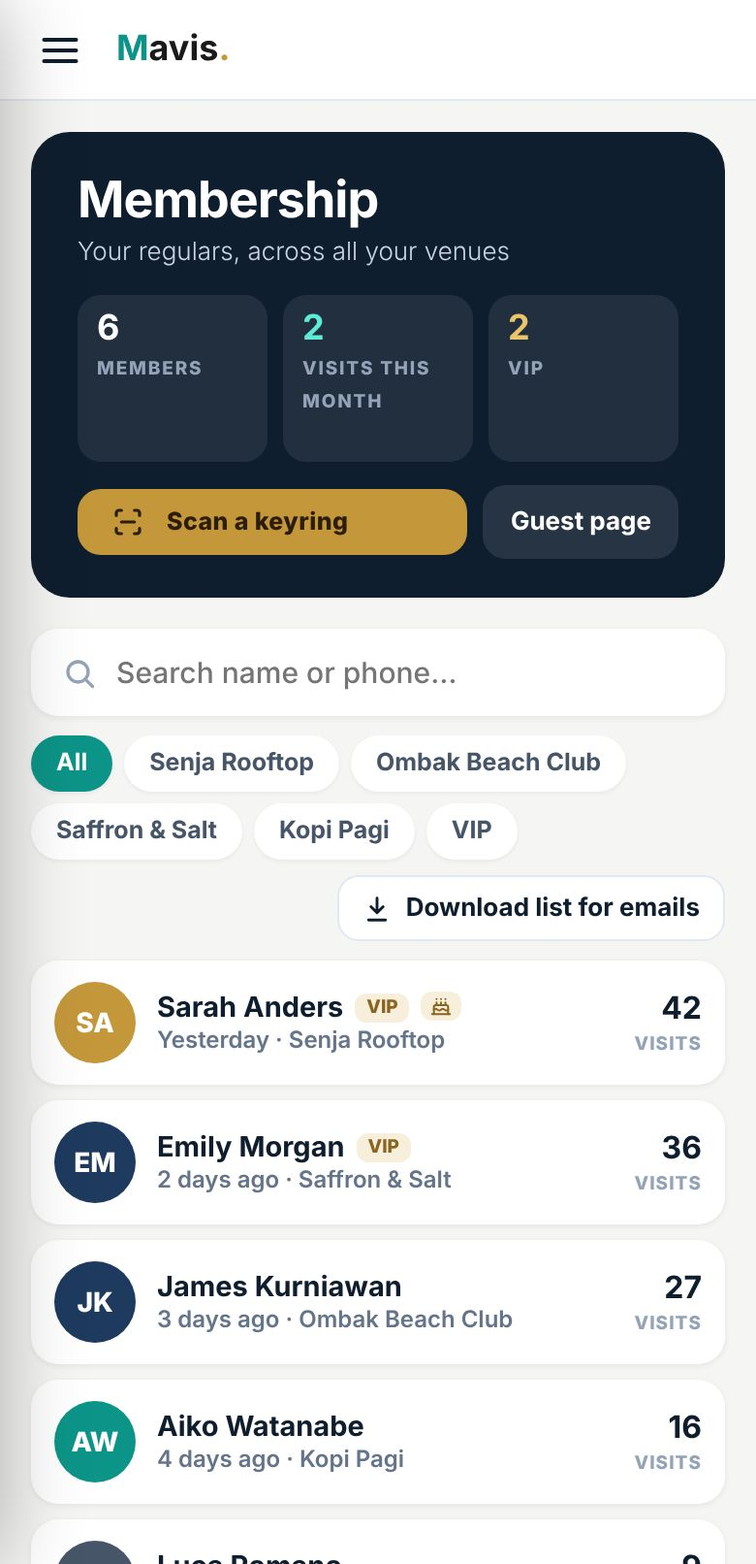
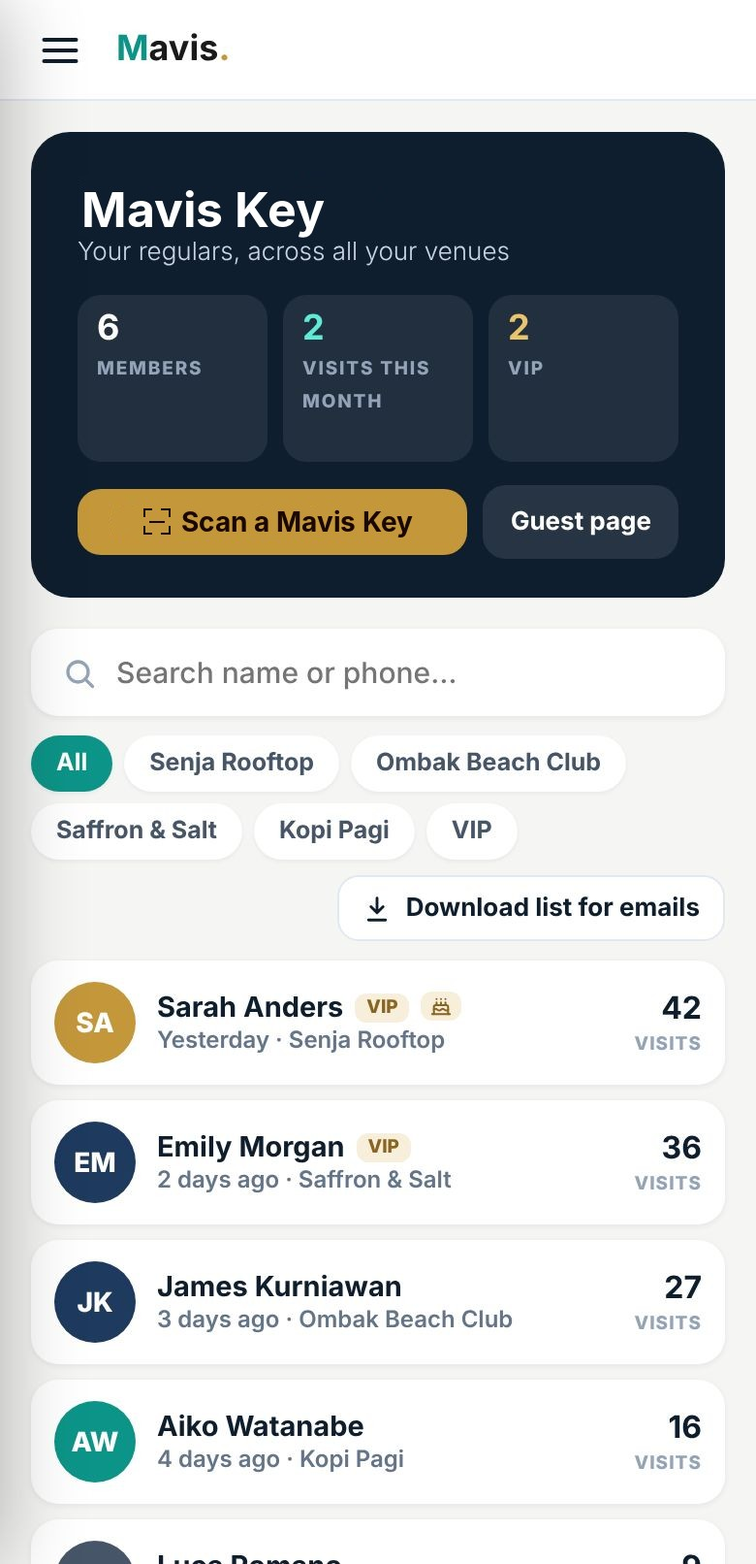
Sales site: Membership renamed Mavis Key with an ADD-ON tag, new Mavis Key scan screen, screenshots relabelled Mavis Key / Scan a Mavis Key
Claude-Session: https://claude.ai/code/session_01PDrfwPm1ywymGCuyADBdVM

Changed region(s): [[0.0923, 0.0931, 0.4923, 0.1551], [0.1538, 0.3102, 0.5538, 0.3412]]

diff --git a/index.html b/index.html
@@ -148,6 +148,7 @@ figure{margin:0}
 .scanwrap{position:relative;overflow:hidden;border-radius:25px}
 .scanl{position:absolute;left:14.5%;right:14.5%;top:31%;height:3px;border-radius:2px;background:#2DD4BF;box-shadow:0 0 16px 2px #2DD4BF;animation:scanl 2.4s ease-in-out infinite alternate}
 @keyframes scanl{from{top:31%}to{top:58%}}
+.scanl.mk{left:25%;right:31%;animation-name:scanlmk}@keyframes scanlmk{from{top:61%}to{top:83%}}
 .ns-row{grid-template-columns:repeat(2,minmax(0,1fr))}.ns-row a{min-width:0}.ns-row a span{min-width:0;overflow-wrap:anywhere}@media(max-width:360px){.ns-row a{font-size:13px;padding:10px;gap:8px}}
 @media (min-width:760px){.shots.multi.n5{gap:16px}.shots.multi.n5 .phone{width:calc(20% - 13px)}}
 
@@ -178,7 +179,7 @@ figure{margin:0}
 <h2>Everything<br><em>under one roof.</em></h2>
 <p class="lede">Stop running your venue across WhatsApp groups, shared drives and spreadsheets. Mavis brings it all together.</p>
 <ul><li><span class="tile"><svg viewBox="0 0 24 24" fill="none" stroke="currentColor" stroke-width="1.9" stroke-linecap="round" stroke-linejoin="round" aria-hidden="true"><path d="M3 9.5 12 3l9 6.5V20a1 1 0 0 1-1 1h-5v-6H9v6H4a1 1 0 0 1-1-1z"/></svg></span><div><h3>Everyone's part of the team</h3><p>Highlights, shoutouts and announcements in one feed. Open the app and you're in the loop.</p></div></li><li><span class="tile"><svg viewBox="0 0 24 24" fill="none" stroke="currentColor" stroke-width="1.9" stroke-linecap="round" stroke-linejoin="round" aria-hidden="true"><path d="M21 11.5a8.4 8.4 0 0 1-9 8.4 8.6 8.6 0 0 1-3.9-.9L3 21l1.9-5.1A8.4 8.4 0 0 1 12 3a8.4 8.4 0 0 1 9 8.5z"/></svg></span><div><h3>Every conversation, one place</h3><p>No more updates lost in 15 WhatsApp groups.</p></div></li><li><span class="tile"><svg viewBox="0 0 24 24" fill="none" stroke="currentColor" stroke-width="1.9" stroke-linecap="round" stroke-linejoin="round" aria-hidden="true"><path d="M3 2v7c0 1.1.9 2 2 2h4a2 2 0 0 0 2-2V2"/><path d="M7 2v20"/><path d="M21 15V2a5 5 0 0 0-5 5v6c0 1.1.9 2 2 2h3zm0 0v7"/></svg></span><div><h3>Menus and recipes together</h3><p>Every dish with its recipe, allergens and food cost. No more hunting through shared drives.</p></div></li><li><span class="tile"><svg viewBox="0 0 24 24" fill="none" stroke="currentColor" stroke-width="1.9" stroke-linecap="round" stroke-linejoin="round" aria-hidden="true"><path d="m9 11 3 3L22 4"/><path d="M21 12v7a2 2 0 0 1-2 2H5a2 2 0 0 1-2-2V5a2 2 0 0 1 2-2h11"/></svg></span><div><h3>Every procedure, one tap away</h3><p>New staff know the standard from day one.</p></div></li><li><span class="tile"><svg viewBox="0 0 24 24" fill="none" stroke="currentColor" stroke-width="1.9" stroke-linecap="round" stroke-linejoin="round" aria-hidden="true"><path d="M12 20V10"/><path d="M18 20V4"/><path d="M6 20v-4"/></svg></span><div><h3>The numbers, not the spreadsheets</h3><p>Revenue, forecasts and events, updated as you go.</p></div></li><li><span class="tile"><svg viewBox="0 0 24 24" fill="none" stroke="currentColor" stroke-width="1.9" stroke-linecap="round" stroke-linejoin="round" aria-hidden="true"><path d="M12 22s8-4 8-10V5l-8-3-8 3v7c0 6 8 10 8 10z"/></svg></span><div><h3>Every venue, one login</h3><p>Switch venues in a tap. From the GM to the daily worker, everyone sees exactly what they need.</p></div></li></ul></div></section>
-<section class="index" id="inside"><div class="wrap"><h2>What's inside. Tap to jump.</h2><div class="chips"><a class="chip" href="#f0"><svg viewBox="0 0 24 24" fill="none" stroke="currentColor" stroke-width="2" stroke-linecap="round" stroke-linejoin="round" aria-hidden="true"><path d="M3 9.5 12 3l9 6.5V20a1 1 0 0 1-1 1h-5v-6H9v6H4a1 1 0 0 1-1-1z"/></svg><span>Dashboard</span></a><a class="chip" href="#f1"><svg viewBox="0 0 24 24" fill="none" stroke="currentColor" stroke-width="2" stroke-linecap="round" stroke-linejoin="round" aria-hidden="true"><path d="M11 5 6 9H2v6h4l5 4z"/><path d="M15.5 8.5a5 5 0 0 1 0 7"/><path d="M19 5a10 10 0 0 1 0 14"/></svg><span>Highlights</span></a><a class="chip" href="#f2"><svg viewBox="0 0 24 24" fill="none" stroke="currentColor" stroke-width="2" stroke-linecap="round" stroke-linejoin="round" aria-hidden="true"><path d="M6 8a6 6 0 0 1 12 0c0 7 3 9 3 9H3s3-2 3-9"/><path d="M10.3 21a1.94 1.94 0 0 0 3.4 0"/></svg><span>Team Feed</span></a><a class="chip" href="#f3"><svg viewBox="0 0 24 24" fill="none" stroke="currentColor" stroke-width="2" stroke-linecap="round" stroke-linejoin="round" aria-hidden="true"><path d="M21 11.5a8.4 8.4 0 0 1-9 8.4 8.6 8.6 0 0 1-3.9-.9L3 21l1.9-5.1A8.4 8.4 0 0 1 12 3a8.4 8.4 0 0 1 9 8.5z"/></svg><span>Chat</span></a><a class="chip" href="#f4"><svg viewBox="0 0 24 24" fill="none" stroke="currentColor" stroke-width="2" stroke-linecap="round" stroke-linejoin="round" aria-hidden="true"><path d="M22 12h-4l-3 9L9 3l-3 9H2"/></svg><span>Forecast</span></a><a class="chip" href="#f5"><svg viewBox="0 0 24 24" fill="none" stroke="currentColor" stroke-width="2" stroke-linecap="round" stroke-linejoin="round" aria-hidden="true"><path d="M12 20V10"/><path d="M18 20V4"/><path d="M6 20v-4"/></svg><span>Analytics</span></a><a class="chip" href="#fe"><svg viewBox="0 0 24 24" fill="none" stroke="currentColor" stroke-width="2" stroke-linecap="round" stroke-linejoin="round" aria-hidden="true"><rect x="3" y="4" width="18" height="18" rx="2"/><path d="M16 2v4M8 2v4M3 10h18"/><path d="M8 15h3"/></svg><span>Events &amp; P&amp;L</span></a><a class="chip" href="#fm"><svg viewBox="0 0 24 24" fill="none" stroke="currentColor" stroke-width="2" stroke-linecap="round" stroke-linejoin="round" aria-hidden="true"><rect x="3" y="5" width="18" height="14" rx="2"/><circle cx="9" cy="12" r="2.5"/><path d="M14 10h4M14 14h3"/></svg><span>Membership</span></a><a class="chip" href="#f6"><svg viewBox="0 0 24 24" fill="none" stroke="currentColor" stroke-width="2" stroke-linecap="round" stroke-linejoin="round" aria-hidden="true"><path d="M3 2v7c0 1.1.9 2 2 2h4a2 2 0 0 0 2-2V2"/><path d="M7 2v20"/><path d="M21 15V2a5 5 0 0 0-5 5v6c0 1.1.9 2 2 2h3zm0 0v7"/></svg><span>Kitchen</span></a><a class="chip" href="#fb"><svg viewBox="0 0 24 24" fill="none" stroke="currentColor" stroke-width="1.9" stroke-linecap="round" stroke-linejoin="round" aria-hidden="true"><path d="M8 22h8"/><path d="M12 15v7"/><path d="M5 3h14l-1 7a6 6 0 0 1-12 0Z"/></svg><span>Bar</span></a><a class="chip" href="#f7"><svg viewBox="0 0 24 24" fill="none" stroke="currentColor" stroke-width="2" stroke-linecap="round" stroke-linejoin="round" aria-hidden="true"><path d="M3 2v7c0 1.1.9 2 2 2h4a2 2 0 0 0 2-2V2"/><path d="M7 2v20"/><path d="M21 15V2a5 5 0 0 0-5 5v6c0 1.1.9 2 2 2h3zm0 0v7"/></svg><span>Recipes</span></a><a class="chip" href="#f8"><svg viewBox="0 0 24 24" fill="none" stroke="currentColor" stroke-width="2" stroke-linecap="round" stroke-linejoin="round" aria-hidden="true"><rect x="3" y="3" width="18" height="18" rx="2"/><path d="M8 7v7"/><path d="M12 7v4"/><path d="M16 7v9"/></svg><span>Task Board</span></a><a class="chip" href="#fn"><svg viewBox="0 0 24 24" fill="none" stroke="currentColor" stroke-width="2" stroke-linecap="round" stroke-linejoin="round" aria-hidden="true"><path d="M15.5 3H5a2 2 0 0 0-2 2v14a2 2 0 0 0 2 2h14a2 2 0 0 0 2-2V8.5z"/><path d="M15 3v6h6"/></svg><span>Sticky Notes</span></a><a class="chip" href="#fs"><svg viewBox="0 0 24 24" fill="none" stroke="currentColor" stroke-width="2" stroke-linecap="round" stroke-linejoin="round" aria-hidden="true"><rect x="3" y="4" width="18" height="17" rx="2"/><path d="M3 10h18M8 2v4M16 2v4M8 14h2M14 14h2M8 18h2"/></svg><span>Scheduling</span></a><a class="chip" href="#fx"><svg viewBox="0 0 24 24" fill="none" stroke="currentColor" stroke-width="2" stroke-linecap="round" stroke-linejoin="round" aria-hidden="true"><path d="M14.7 6.3a1 1 0 0 0 0 1.4l1.6 1.6a1 1 0 0 0 1.4 0l3.8-3.8a6 6 0 0 1-7.9 7.9l-6.9 6.9a2.1 2.1 0 0 1-3-3l6.9-6.9a6 6 0 0 1 7.9-7.9z"/></svg><span>Maintenance</span></a><a class="chip" href="#f11"><svg viewBox="0 0 24 24" fill="none" stroke="currentColor" stroke-width="2" stroke-linecap="round" stroke-linejoin="round" aria-hidden="true"><path d="M21 15a2 2 0 0 1-2 2H7l-4 4V5a2 2 0 0 1 2-2h14a2 2 0 0 1 2 2z"/><path d="M8 8h8M8 12h5"/></svg><span>Customer Survey</span></a><a class="chip" href="#f12"><svg viewBox="0 0 24 24" fill="none" stroke="currentColor" stroke-width="2" stroke-linecap="round" stroke-linejoin="round" aria-hidden="true"><path d="m9 11 3 3L22 4"/><path d="M21 12v7a2 2 0 0 1-2 2H5a2 2 0 0 1-2-2V5a2 2 0 0 1 2-2h11"/></svg><span>SOPs</span></a><a class="chip" href="#fk"><svg viewBox="0 0 24 24" fill="none" stroke="currentColor" stroke-width="2" stroke-linecap="round" stroke-linejoin="round" aria-hidden="true"><circle cx="12" cy="12" r="10"/><path d="M9.1 9a3 3 0 0 1 5.8 1c0 2-3 3-3 3M12 17h.01"/></svg><span>Knowledge Base</span></a><a class="chip" href="#fv"><svg viewBox="0 0 24 24" fill="none" stroke="currentColor" stroke-width="2" stroke-linecap="round" stroke-linejoin="round" aria-hidden="true"><path d="M3 9h18l-1.5-5h-15z"/><path d="M5 9v11h14V9M9 20v-6h6v6"/></svg><span>Vendor Directory</span></a><a class="chip" href="#f13"><svg viewBox="0 0 24 24" fill="none" stroke="currentColor" stroke-width="2" stroke-linecap="round" stroke-linejoin="round" aria-hidden="true"><path d="M21 15a2 2 0 0 1-2 2H7l-4 4V5a2 2 0 0 1 2-2h14a2 2 0 0 1 2 2z"/></svg><span>Suggestion Box</span></a><a class="chip" href="#f14"><svg viewBox="0 0 24 24" fill="none" stroke="currentColor" stroke-width="2" stroke-linecap="round" stroke-linejoin="round" aria-hidden="true"><rect x="2" y="7" width="20" height="14" rx="2"/><path d="M16 21V5a2 2 0 0 0-2-2h-4a2 2 0 0 0-2 2v16"/></svg><span>Job Vacancies</span></a><a class="chip" href="#f16"><svg viewBox="0 0 24 24" fill="none" stroke="currentColor" stroke-width="2" stroke-linecap="round" stroke-linejoin="round" aria-hidden="true"><path d="M14.5 2H6a2 2 0 0 0-2 2v16a2 2 0 0 0 2 2h12a2 2 0 0 0 2-2V7.5z"/><path d="M14 2v6h6"/></svg><span>Meeting Notes</span></a><a class="chip" href="#f10"><svg viewBox="0 0 24 24" fill="none" stroke="currentColor" stroke-width="2" stroke-linecap="round" stroke-linejoin="round" aria-hidden="true"><path d="M12 22s8-4 8-10V5l-8-3-8 3v7c0 6 8 10 8 10z"/></svg><span>Admin Console</span></a></div></div></section>
+<section class="index" id="inside"><div class="wrap"><h2>What's inside. Tap to jump.</h2><div class="chips"><a class="chip" href="#f0"><svg viewBox="0 0 24 24" fill="none" stroke="currentColor" stroke-width="2" stroke-linecap="round" stroke-linejoin="round" aria-hidden="true"><path d="M3 9.5 12 3l9 6.5V20a1 1 0 0 1-1 1h-5v-6H9v6H4a1 1 0 0 1-1-1z"/></svg><span>Dashboard</span></a><a class="chip" href="#f1"><svg viewBox="0 0 24 24" fill="none" stroke="currentColor" stroke-width="2" stroke-linecap="round" stroke-linejoin="round" aria-hidden="true"><path d="M11 5 6 9H2v6h4l5 4z"/><path d="M15.5 8.5a5 5 0 0 1 0 7"/><path d="M19 5a10 10 0 0 1 0 14"/></svg><span>Highlights</span></a><a class="chip" href="#f2"><svg viewBox="0 0 24 24" fill="none" stroke="currentColor" stroke-width="2" stroke-linecap="round" stroke-linejoin="round" aria-hidden="true"><path d="M6 8a6 6 0 0 1 12 0c0 7 3 9 3 9H3s3-2 3-9"/><path d="M10.3 21a1.94 1.94 0 0 0 3.4 0"/></svg><span>Team Feed</span></a><a class="chip" href="#f3"><svg viewBox="0 0 24 24" fill="none" stroke="currentColor" stroke-width="2" stroke-linecap="round" stroke-linejoin="round" aria-hidden="true"><path d="M21 11.5a8.4 8.4 0 0 1-9 8.4 8.6 8.6 0 0 1-3.9-.9L3 21l1.9-5.1A8.4 8.4 0 0 1 12 3a8.4 8.4 0 0 1 9 8.5z"/></svg><span>Chat</span></a><a class="chip" href="#f4"><svg viewBox="0 0 24 24" fill="none" stroke="currentColor" stroke-width="2" stroke-linecap="round" stroke-linejoin="round" aria-hidden="true"><path d="M22 12h-4l-3 9L9 3l-3 9H2"/></svg><span>Forecast</span></a><a class="chip" href="#f5"><svg viewBox="0 0 24 24" fill="none" stroke="currentColor" stroke-width="2" stroke-linecap="round" stroke-linejoin="round" aria-hidden="true"><path d="M12 20V10"/><path d="M18 20V4"/><path d="M6 20v-4"/></svg><span>Analytics</span></a><a class="chip" href="#fe"><svg viewBox="0 0 24 24" fill="none" stroke="currentColor" stroke-width="2" stroke-linecap="round" stroke-linejoin="round" aria-hidden="true"><rect x="3" y="4" width="18" height="18" rx="2"/><path d="M16 2v4M8 2v4M3 10h18"/><path d="M8 15h3"/></svg><span>Events &amp; P&amp;L</span></a><a class="chip" href="#fm"><svg viewBox="0 0 24 24" fill="none" stroke="currentColor" stroke-width="2" stroke-linecap="round" stroke-linejoin="round" aria-hidden="true"><rect x="3" y="5" width="18" height="14" rx="2"/><circle cx="9" cy="12" r="2.5"/><path d="M14 10h4M14 14h3"/></svg><span>Mavis Key</span></a><a class="chip" href="#f6"><svg viewBox="0 0 24 24" fill="none" stroke="currentColor" stroke-width="2" stroke-linecap="round" stroke-linejoin="round" aria-hidden="true"><path d="M3 2v7c0 1.1.9 2 2 2h4a2 2 0 0 0 2-2V2"/><path d="M7 2v20"/><path d="M21 15V2a5 5 0 0 0-5 5v6c0 1.1.9 2 2 2h3zm0 0v7"/></svg><span>Kitchen</span></a><a class="chip" href="#fb"><svg viewBox="0 0 24 24" fill="none" stroke="currentColor" stroke-width="1.9" stroke-linecap="round" stroke-linejoin="round" aria-hidden="true"><path d="M8 22h8"/><path d="M12 15v7"/><path d="M5 3h14l-1 7a6 6 0 0 1-12 0Z"/></svg><span>Bar</span></a><a class="chip" href="#f7"><svg viewBox="0 0 24 24" fill="none" stroke="currentColor" stroke-width="2" stroke-linecap="round" stroke-linejoin="round" aria-hidden="true"><path d="M3 2v7c0 1.1.9 2 2 2h4a2 2 0 0 0 2-2V2"/><path d="M7 2v20"/><path d="M21 15V2a5 5 0 0 0-5 5v6c0 1.1.9 2 2 2h3zm0 0v7"/></svg><span>Recipes</span></a><a class="chip" href="#f8"><svg viewBox="0 0 24 24" fill="none" stroke="currentColor" stroke-width="2" stroke-linecap="round" stroke-linejoin="round" aria-hidden="true"><rect x="3" y="3" width="18" height="18" rx="2"/><path d="M8 7v7"/><path d="M12 7v4"/><path d="M16 7v9"/></svg><span>Task Board</span></a><a class="chip" href="#fn"><svg viewBox="0 0 24 24" fill="none" stroke="currentColor" stroke-width="2" stroke-linecap="round" stroke-linejoin="round" aria-hidden="true"><path d="M15.5 3H5a2 2 0 0 0-2 2v14a2 2 0 0 0 2 2h14a2 2 0 0 0 2-2V8.5z"/><path d="M15 3v6h6"/></svg><span>Sticky Notes</span></a><a class="chip" href="#fs"><svg viewBox="0 0 24 24" fill="none" stroke="currentColor" stroke-width="2" stroke-linecap="round" stroke-linejoin="round" aria-hidden="true"><rect x="3" y="4" width="18" height="17" rx="2"/><path d="M3 10h18M8 2v4M16 2v4M8 14h2M14 14h2M8 18h2"/></svg><span>Scheduling</span></a><a class="chip" href="#fx"><svg viewBox="0 0 24 24" fill="none" stroke="currentColor" stroke-width="2" stroke-linecap="round" stroke-linejoin="round" aria-hidden="true"><path d="M14.7 6.3a1 1 0 0 0 0 1.4l1.6 1.6a1 1 0 0 0 1.4 0l3.8-3.8a6 6 0 0 1-7.9 7.9l-6.9 6.9a2.1 2.1 0 0 1-3-3l6.9-6.9a6 6 0 0 1 7.9-7.9z"/></svg><span>Maintenance</span></a><a class="chip" href="#f11"><svg viewBox="0 0 24 24" fill="none" stroke="currentColor" stroke-width="2" stroke-linecap="round" stroke-linejoin="round" aria-hidden="true"><path d="M21 15a2 2 0 0 1-2 2H7l-4 4V5a2 2 0 0 1 2-2h14a2 2 0 0 1 2 2z"/><path d="M8 8h8M8 12h5"/></svg><span>Customer Survey</span></a><a class="chip" href="#f12"><svg viewBox="0 0 24 24" fill="none" stroke="currentColor" stroke-width="2" stroke-linecap="round" stroke-linejoin="round" aria-hidden="true"><path d="m9 11 3 3L22 4"/><path d="M21 12v7a2 2 0 0 1-2 2H5a2 2 0 0 1-2-2V5a2 2 0 0 1 2-2h11"/></svg><span>SOPs</span></a><a class="chip" href="#fk"><svg viewBox="0 0 24 24" fill="none" stroke="currentColor" stroke-width="2" stroke-linecap="round" stroke-linejoin="round" aria-hidden="true"><circle cx="12" cy="12" r="10"/><path d="M9.1 9a3 3 0 0 1 5.8 1c0 2-3 3-3 3M12 17h.01"/></svg><span>Knowledge Base</span></a><a class="chip" href="#fv"><svg viewBox="0 0 24 24" fill="none" stroke="currentColor" stroke-width="2" stroke-linecap="round" stroke-linejoin="round" aria-hidden="true"><path d="M3 9h18l-1.5-5h-15z"/><path d="M5 9v11h14V9M9 20v-6h6v6"/></svg><span>Vendor Directory</span></a><a class="chip" href="#f13"><svg viewBox="0 0 24 24" fill="none" stroke="currentColor" stroke-width="2" stroke-linecap="round" stroke-linejoin="round" aria-hidden="true"><path d="M21 15a2 2 0 0 1-2 2H7l-4 4V5a2 2 0 0 1 2-2h14a2 2 0 0 1 2 2z"/></svg><span>Suggestion Box</span></a><a class="chip" href="#f14"><svg viewBox="0 0 24 24" fill="none" stroke="currentColor" stroke-width="2" stroke-linecap="round" stroke-linejoin="round" aria-hidden="true"><rect x="2" y="7" width="20" height="14" rx="2"/><path d="M16 21V5a2 2 0 0 0-2-2h-4a2 2 0 0 0-2 2v16"/></svg><span>Job Vacancies</span></a><a class="chip" href="#f16"><svg viewBox="0 0 24 24" fill="none" stroke="currentColor" stroke-width="2" stroke-linecap="round" stroke-linejoin="round" aria-hidden="true"><path d="M14.5 2H6a2 2 0 0 0-2 2v16a2 2 0 0 0 2 2h12a2 2 0 0 0 2-2V7.5z"/><path d="M14 2v6h6"/></svg><span>Meeting Notes</span></a><a class="chip" href="#f10"><svg viewBox="0 0 24 24" fill="none" stroke="currentColor" stroke-width="2" stroke-linecap="round" stroke-linejoin="round" aria-hidden="true"><path d="M12 22s8-4 8-10V5l-8-3-8 3v7c0 6 8 10 8 10z"/></svg><span>Admin Console</span></a></div></div></section>
 <div class="wrap"><section class="feat" id="f0"><div class="ftext"><p class="fname"><span class="tile sm"><svg viewBox="0 0 24 24" fill="none" stroke="currentColor" stroke-width="1.9" stroke-linecap="round" stroke-linejoin="round" aria-hidden="true"><path d="M3 9.5 12 3l9 6.5V20a1 1 0 0 1-1 1h-5v-6H9v6H4a1 1 0 0 1-1-1z"/></svg></span>Dashboard</p><h2>One screen, the whole day</h2><p class="lede">Switch venues in a tap, see local news and weather, and reach every tool from one home screen.</p></div>
 <div class="shots single n1 deskwrap"><figure class="screen wide deskonly"><img src="/tour/m-59d87189054d/t9_deskdash.jpg?v=6" width="2172" height="2591" alt="Mavis dashboard on a laptop"></figure></div><div class="shots multi mobtb"><figure class="phone"><img src="/tour/m-59d87189054d/t9_dsh2.jpg?v=6" width="820" height="1640" alt="Switching between venues"></figure><figure class="phone"><img src="/tour/m-59d87189054d/dsh4.jpg?v=5" width="820" height="1640" alt="Industry news and weather"></figure><figure class="phone"><img src="/tour/m-59d87189054d/dsh5.jpg?v=5" width="820" height="1640" alt="My Drive, Quick Links and menu sections"></figure></div><p class="hint mobtbh"><i class="on"></i><i></i><i></i><span>Swipe through the dashboard</span></p></section><section class="feat" id="f1"><div class="ftext"><p class="fname"><span class="tile sm"><svg viewBox="0 0 24 24" fill="none" stroke="currentColor" stroke-width="1.9" stroke-linecap="round" stroke-linejoin="round" aria-hidden="true"><path d="M11 5 6 9H2v6h4l5 4z"/><path d="M15.5 8.5a5 5 0 0 1 0 7"/><path d="M19 5a10 10 0 0 1 0 14"/></svg></span>Highlights</p><h2>Every win, seen by everyone</h2><p class="lede">Birthdays, shoutouts, local tips and reminders. Posted once, swiped through Instagram-style by the whole team.</p></div>
 <div class="shots multi n5"><figure class="phone"><img src="/tour/m-59d87189054d/t5_hl1.jpg?v=6" width="820" height="1640" alt="A well-done highlight for the kitchen team" loading="lazy"></figure><figure class="phone"><img src="/tour/m-59d87189054d/t4_hl2.jpg?v=6" width="820" height="1640" alt="Staff party highlight" loading="lazy"></figure><figure class="phone"><img src="/tour/m-59d87189054d/t4_hl3.jpg?v=6" width="820" height="1640" alt="New menu tasting highlight" loading="lazy"></figure><figure class="phone"><img src="/tour/m-59d87189054d/t4_hl4.jpg?v=6" width="820" height="1640" alt="Safety reminder highlight" loading="lazy"></figure><figure class="phone"><img src="/tour/m-59d87189054d/t4_hl5.jpg" width="820" height="1640" alt="Team lunch highlight" loading="lazy"></figure></div><p class="hint"><i class="on"></i><i></i><i></i><i></i><i></i><span>Swipe to see the next screen</span></p></section><section class="feat" id="f2"><div class="ftext"><p class="fname"><span class="tile sm"><svg viewBox="0 0 24 24" fill="none" stroke="currentColor" stroke-width="1.9" stroke-linecap="round" stroke-linejoin="round" aria-hidden="true"><path d="M6 8a6 6 0 0 1 12 0c0 7 3 9 3 9H3s3-2 3-9"/><path d="M10.3 21a1.94 1.94 0 0 0 3.4 0"/></svg></span>Team Feed</p><h2>Post once, everyone sees it</h2><p class="lede">Announcements, photos, polls and replies - pinned right where the whole team looks first, with reactions so you know it landed.</p></div>
@@ -190,8 +191,8 @@ figure{margin:0}
 <div class="evdesk deskwrap"><figure class="screen evbig deskonly"><img src="/tour/m-59d87189054d/evd-pnl.jpg" width="2080" height="1300" alt="The event P&amp;L on a laptop: money in, money out, profit and budget" loading="lazy"><figcaption>The P&amp;L - opens right on the event</figcaption></figure>
 <figure class="screen deskonly"><img src="/tour/m-59d87189054d/evd-plan.jpg?v=2" width="1663" height="1296" alt="An event plan with guests, revenue, vendor costs and net profit" loading="lazy"><figcaption>The event plan - revenue, costs and profit at the top</figcaption></figure><figure class="screen deskonly"><img src="/tour/m-59d87189054d/evd-run.jpg?v=2" width="1663" height="1296" alt="The rundown with alerts for each team" loading="lazy"><figcaption>The rundown - each team alerted before their moment</figcaption></figure></div>
 <div class="shots multi n3 mobtb"><figure class="phone"><img src="/tour/m-59d87189054d/evm-pnl.jpg" width="820" height="1640" alt="The event P&amp;L" loading="lazy"></figure><figure class="phone"><img src="/tour/m-59d87189054d/evm-plan.jpg" width="820" height="1640" alt="An event plan with revenue, costs and net profit" loading="lazy"></figure><figure class="phone"><img src="/tour/m-59d87189054d/evm-run.jpg" width="820" height="1640" alt="The rundown with alerts for each team" loading="lazy"></figure></div><p class="hint mobtbh"><i class="on"></i><i></i><i></i><span>Swipe: P&amp;L, plan, rundown</span></p></section>
-<section class="feat" id="fm"><div class="ftext"><p class="fname"><span class="tile sm"><svg viewBox="0 0 24 24" fill="none" stroke="currentColor" stroke-width="1.9" stroke-linecap="round" stroke-linejoin="round" aria-hidden="true"><rect x="3" y="5" width="18" height="14" rx="2"/><circle cx="9" cy="12" r="2.5"/><path d="M14 10h4M14 14h3"/></svg></span>Membership</p><h2>One keyring, every venue</h2><p class="lede">Give your regulars a QR keyring. Staff scan it and the guest's profile pops up: visits, favourite venue and perks, across all your venues.</p><p style="margin:18px 0 6px"><a class="btn wa" href="/membership/">See everything in Membership<svg viewBox="0 0 24 24" fill="none" stroke="currentColor" stroke-width="2.4" stroke-linecap="round" stroke-linejoin="round" aria-hidden="true"><path d="m9 18 6-6-6-6"/></svg></a></p><img class="krphoto" src="/tour/m-59d87189054d/t9_keyrings.jpg" width="896" height="747" alt="Wooden guest keyrings with QR codes"></div>
-<div class="shots multi n3"><figure class="phone"><div class="scanwrap"><img src="/tour/m-59d87189054d/t3_mb2.jpg" width="820" height="1640" alt="Scanning a member keyring" loading="lazy"><i class="scanl"></i></div></figure><figure class="phone"><img src="/tour/m-59d87189054d/mb3.jpg" width="820" height="1640" alt="A member profile with visits and perks" loading="lazy"></figure><figure class="phone"><img src="/tour/m-59d87189054d/mb1.jpg" width="820" height="1640" alt="All members across four venues" loading="lazy"></figure></div><p class="hint"><i class="on"></i><i></i><i></i><span>Swipe to see the next screen</span></p></section><section class="feat" id="f6"><div class="ftext"><p class="fname"><span class="tile sm"><svg viewBox="0 0 24 24" fill="none" stroke="currentColor" stroke-width="1.9" stroke-linecap="round" stroke-linejoin="round" aria-hidden="true"><path d="M3 2v7c0 1.1.9 2 2 2h4a2 2 0 0 0 2-2V2"/><path d="M7 2v20"/><path d="M21 15V2a5 5 0 0 0-5 5v6c0 1.1.9 2 2 2h3zm0 0v7"/></svg></span>Kitchen</p><h2>Menus and recipes, under one roof</h2><p class="lede">Live, in-progress and upcoming menus for every venue. Tap a menu to see each dish with its photo, price, allergens and food cost.</p></div>
+<section class="feat" id="fm"><div class="ftext"><p class="fname"><span class="tile sm"><svg viewBox="0 0 24 24" fill="none" stroke="currentColor" stroke-width="1.9" stroke-linecap="round" stroke-linejoin="round" aria-hidden="true"><rect x="3" y="5" width="18" height="14" rx="2"/><circle cx="9" cy="12" r="2.5"/><path d="M14 10h4M14 14h3"/></svg></span>Mavis Key <span style="display:inline-block;margin-left:8px;padding:2px 9px;border-radius:99px;background:#C4973B;color:#0F1E2E;font-size:11px;font-weight:900;letter-spacing:.8px;vertical-align:2px">ADD-ON</span></p><h2>Your members club, on a keyring</h2><p class="lede">Give your regulars a QR keyring. Staff scan it and the guest's profile pops up: visits, favourite venue and perks, across all your venues.</p><p style="margin:18px 0 6px"><a class="btn wa" href="/membership/">See everything in Mavis Key<svg viewBox="0 0 24 24" fill="none" stroke="currentColor" stroke-width="2.4" stroke-linecap="round" stroke-linejoin="round" aria-hidden="true"><path d="m9 18 6-6-6-6"/></svg></a></p><img class="krphoto" src="/tour/m-59d87189054d/t9_keyrings.jpg" width="896" height="747" alt="Wooden guest keyrings with QR codes"></div>
+<div class="shots multi n3"><figure class="phone"><div class="scanwrap"><img src="/img/mem/k-scan.jpg" width="820" height="1640" alt="Scanning a guest's Mavis Key" loading="lazy"><i class="scanl mk"></i></div></figure><figure class="phone"><img src="/tour/m-59d87189054d/mb3.jpg" width="820" height="1640" alt="A member profile with visits and perks" loading="lazy"></figure><figure class="phone"><img src="/tour/m-59d87189054d/mb1.jpg" width="820" height="1640" alt="All members across four venues" loading="lazy"></figure></div><p class="hint"><i class="on"></i><i></i><i></i><span>Swipe to see the next screen</span></p></section><section class="feat" id="f6"><div class="ftext"><p class="fname"><span class="tile sm"><svg viewBox="0 0 24 24" fill="none" stroke="currentColor" stroke-width="1.9" stroke-linecap="round" stroke-linejoin="round" aria-hidden="true"><path d="M3 2v7c0 1.1.9 2 2 2h4a2 2 0 0 0 2-2V2"/><path d="M7 2v20"/><path d="M21 15V2a5 5 0 0 0-5 5v6c0 1.1.9 2 2 2h3zm0 0v7"/></svg></span>Kitchen</p><h2>Menus and recipes, under one roof</h2><p class="lede">Live, in-progress and upcoming menus for every venue. Tap a menu to see each dish with its photo, price, allergens and food cost.</p></div>
 <div class="shots multi n3"><figure class="phone"><img src="/tour/m-59d87189054d/t4_kt1.jpg" width="820" height="1640" alt="Live menus across four venues" loading="lazy"></figure><figure class="phone"><img src="/tour/m-59d87189054d/t4_kt2.jpg?v=5" width="820" height="1640" alt="A live menu with dishes, allergens and food cost" loading="lazy"></figure><figure class="phone"><img src="/tour/m-59d87189054d/t4_kt3.jpg?v=10" width="820" height="1640" alt="A dish with its photo, allergens and food cost" loading="lazy"></figure></div><p class="hint"><i class="on"></i><i></i><i></i><span>Swipe to see the next screen</span></p></section><section class="feat" id="fb"><div class="ftext"><p class="fname"><span class="tile sm"><svg viewBox="0 0 24 24" fill="none" stroke="currentColor" stroke-width="1.9" stroke-linecap="round" stroke-linejoin="round" aria-hidden="true"><path d="M8 22h8"/><path d="M12 15v7"/><path d="M5 3h14l-1 7a6 6 0 0 1-12 0Z"/></svg></span>Bar</p><h2>Every bar, every drink, one list</h2><p class="lede">Live drinks menus for every bar, with photos, prices, allergens and beverage cost. Plus the recipes, so the Espresso Martini tastes the same at every venue.</p></div><div class="shots multi n3"><figure class="phone"><img src="/tour/m-59d87189054d/t4_bar1.jpg" width="820" height="1640" alt="Live drinks menus across the bars" loading="lazy"></figure><figure class="phone"><img src="/tour/m-59d87189054d/t8_bar2.jpg?v=10" width="820" height="1640" alt="A cocktail list with prices and beverage cost" loading="lazy"></figure><figure class="phone"><img src="/tour/m-59d87189054d/t8_bar3.jpg" width="820" height="1640" alt="A cocktail with its photo and allergens" loading="lazy"></figure></div><p class="hint"><i class="on"></i><i></i><i></i><span>Swipe to see the next screen</span></p></section><section class="feat" id="f7"><div class="ftext"><p class="fname"><span class="tile sm"><svg viewBox="0 0 24 24" fill="none" stroke="currentColor" stroke-width="1.9" stroke-linecap="round" stroke-linejoin="round" aria-hidden="true"><path d="M3 2v7c0 1.1.9 2 2 2h4a2 2 0 0 0 2-2V2"/><path d="M7 2v20"/><path d="M21 15V2a5 5 0 0 0-5 5v6c0 1.1.9 2 2 2h3zm0 0v7"/></svg></span>Recipes</p><h2>Recipe to menu in one tap</h2><p class="lede">Full ingredients and method for every dish, with food cost on each. Move a recipe onto any menu when it's ready.</p></div>
 <div class="shots multi n2"><figure class="phone"><img src="/tour/m-59d87189054d/t3_rec1.jpg?v=10" width="820" height="1640" alt="Truffle tagliatelle recipe"></figure><figure class="phone"><img src="/tour/m-59d87189054d/t3_rec2.jpg?v=10" width="820" height="1640" alt="Grilled barramundi recipe"></figure></div><p class="hint"><i class="on"></i><i></i><span>Swipe to see the next screen</span></p></section><section class="feat" id="f8"><div class="ftext"><p class="fname"><span class="tile sm"><svg viewBox="0 0 24 24" fill="none" stroke="currentColor" stroke-width="1.9" stroke-linecap="round" stroke-linejoin="round" aria-hidden="true"><rect x="3" y="3" width="18" height="18" rx="2"/><path d="M8 7v7"/><path d="M12 7v4"/><path d="M16 7v9"/></svg></span>Task Board</p><h2>Like Trello, built in</h2><p class="lede">Give a task a due date and a person, and they get a notification on their phone. Share a project with chosen people or whole departments, and only they can see it.</p></div>
 <div class="shots stack n1 deskwrap"><figure class="screen full deskonly"><img src="/tour/m-59d87189054d/dtb.jpg?v=7" width="2080" height="1240" alt="A shared team project on a laptop" loading="lazy"></figure></div><div class="shots single n1 mobtb" style="margin-bottom:18px"><figure class="screen" style="width:100%"><img src="/tour/m-59d87189054d/dtb.jpg?v=7" width="2080" height="1240" alt="The task board: To Do, In Progress and Done side by side, like Trello" loading="lazy"></figure></div><div class="shots single n1 mobtb"><figure class="phone"><img src="/tour/m-59d87189054d/tb3.jpg?v=9" width="820" height="1640" alt="A task with who it is for and when it is due" loading="lazy"></figure></div></section>

diff --git a/membership/index.html b/membership/index.html
@@ -496,7 +496,7 @@ details p{padding:0 0 20px;color:var(--ink);font-size:15.5px;line-height:1.6}
       <div class="plan"><span class="pt">FULL MAVIS</span><b>The whole platform</b><p>Everything above, plus events, team chat, tasks, kitchen, maintenance and numbers. DJs from your schedule show on members' pages by themselves.</p></div>
     </div>
   </div>
-  <div class="rv"><div class="laptop"><div class="scr"><img src="/img/mem/s-1440-member.jpg" alt="Mavis Membership on a laptop" loading="lazy"></div></div><div class="laptop-base"></div><span class="cap">Membership on a laptop - just what you need in the menu</span></div>
+  <div class="rv"><div class="laptop"><div class="scr"><img src="/img/mem/s-1440-member.jpg" alt="Mavis Key on a laptop" loading="lazy"></div></div><div class="laptop-base"></div><span class="cap">Membership on a laptop - just what you need in the menu</span></div>
 </div></section>
 
 <!-- FAQ -->
